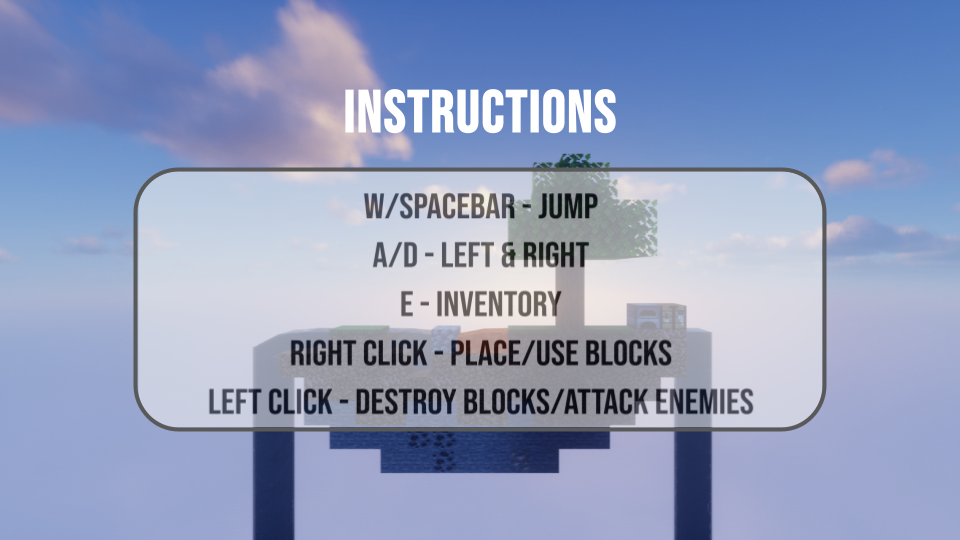
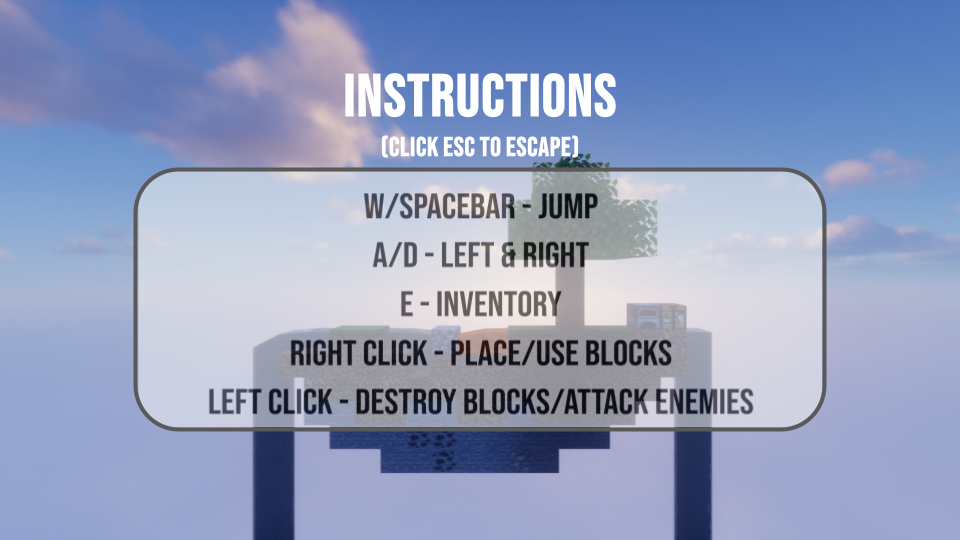
COMMIT

Changed region(s): [[0.3438, 0.1185, 0.6562, 0.2963]]

diff --git a/skyblock/TitleScreen.java b/skyblock/TitleScreen.java
@@ -17,7 +17,7 @@ public class TitleScreen extends World
     private Button credits;
     private Button instructions;
     private GameWorld game;
-    private GreenfootImage instructionsImage;
+    private Image instructionsImage;
     private static GreenfootSound mainMenu = new GreenfootSound("mainmenu.mp3");
     private boolean musicStarted = false;
 
@@ -47,11 +47,13 @@ public class TitleScreen extends World
         instructions = new Button("Instructions", 3, ".png");
         Button.init();
 
+        instructionsImage = new Image("instructions_image.png", 1280, 768);
+
         addObject(playNewWorld, getWidth() / 2, getHeight() / 2 + 150);
         addObject(playFromSave, getWidth() / 2, getHeight() / 2 + 200);
         addObject(instructions, getWidth() / 2, getHeight() / 2 + 250);
         addObject(credits, getWidth() / 2, getHeight() / 2 + 300);
-        
+
         addObject(logo, getWidth() / 2, 100);
         prepare();
     }
@@ -59,6 +61,13 @@ public class TitleScreen extends World
     public void act(){
         checkIfPressed();
         startMusic();
+
+        if (instructions != null)
+        {
+            if(Greenfoot.isKeyDown("escape")){
+                removeObject(instructionsImage);
+            }
+        }
     }
 
     /**
@@ -117,7 +126,6 @@ public class TitleScreen extends World
         }
     }
 
-    
     /**
      * Checks if buttons are pressed
      */
@@ -128,26 +136,27 @@ public class TitleScreen extends World
             Greenfoot.setWorld(game);
             playFromSave.setPressedCondition(false);
         }
-        
+
         if(playNewWorld.isPressed()){
             game = new GameWorld(this);
             game.checkReset();
             Greenfoot.setWorld(game);
             playNewWorld.setPressedCondition(false);
         }
-        
+
         if(instructions.isPressed()){
-            game = new GameWorld(this);
-            playNewWorld.setPressedCondition(false);
+            addObject(instructionsImage, getWidth()/2, getHeight()/2);
+
+            instructions.setPressedCondition(false);
         }
-        
+
         if(credits.isPressed()){
             game = new GameWorld(this);
-            
-            playNewWorld.setPressedCondition(false);
+
+            credits.setPressedCondition(false);
         }
     }
-    
+
     /**
      * Prepare the world for the start of the program.
      * That is: create the initial objects and add them to the world.
